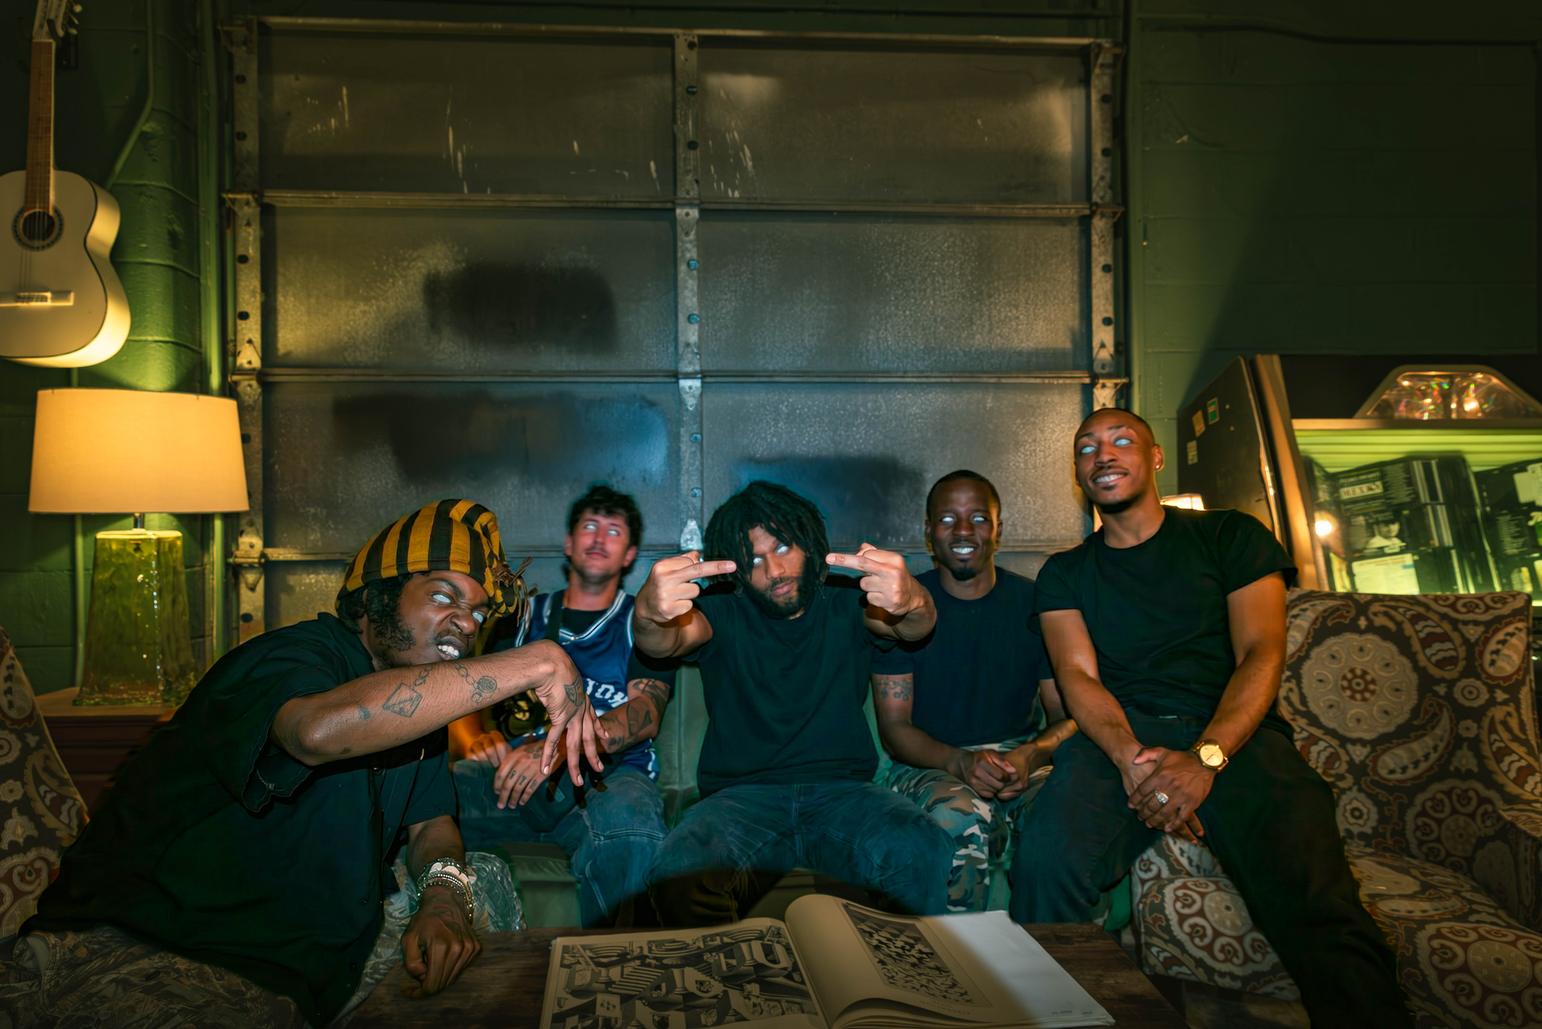
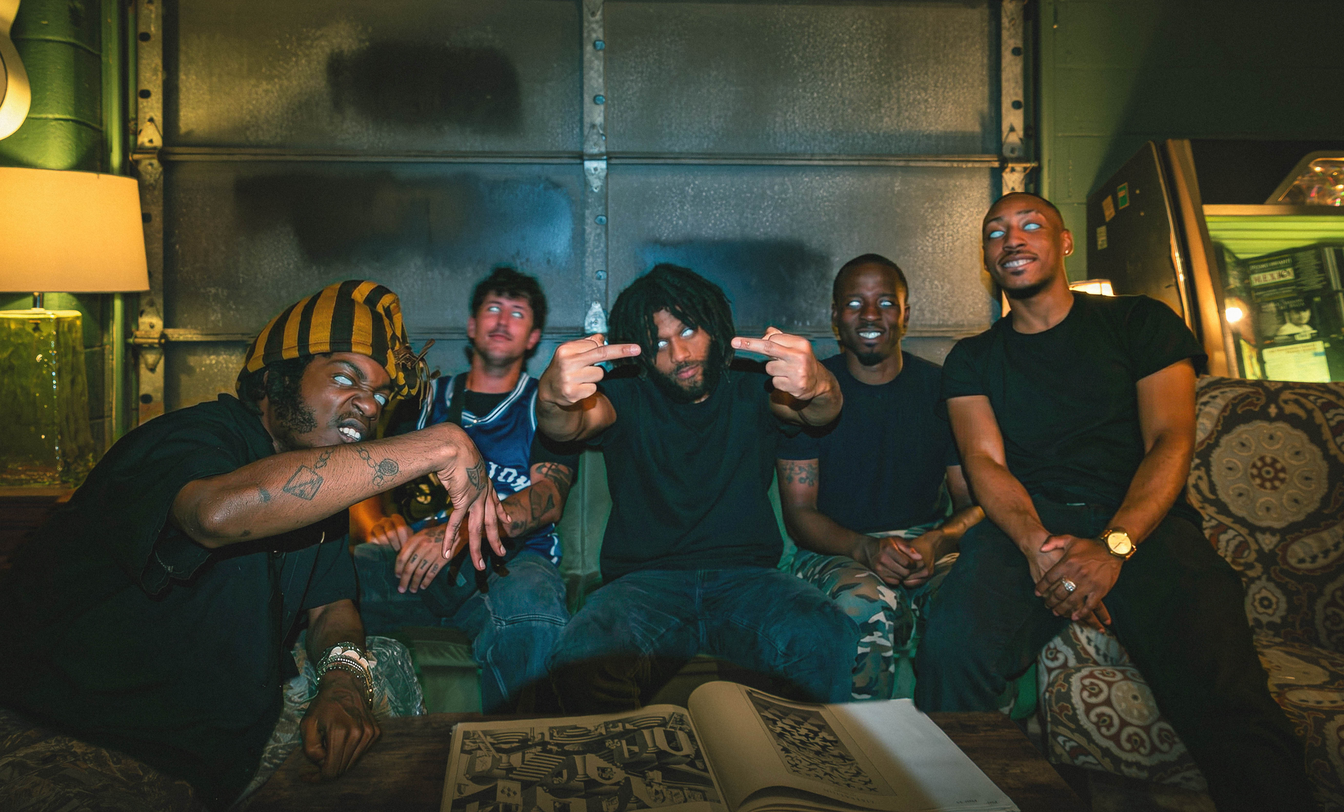
Rename connect to book, add three photos, reorganize the photo list
The contact route is /book now; nothing else linked to /connect.

comedy-15, comedy-16 and portrait-14 are new; comedy-07 and music-01 are
re-exports of photos already on the site.

lib/photos.ts is regrouped so the featured list leads and the per-category
albums follow it, with landscape and portrait photos kept together inside
each. That is presentation only - the file is edited by hand often enough
that finding a photo in it matters, and no code reads its order except the
rail, which goes by projectOrder rather than position.

diff --git a/lib/photos.ts b/lib/photos.ts
@@ -7,61 +7,33 @@ export type { Photo };
  * music-NN - and featured-NN for the few that suit no section and appear on
  * the home page only. The numbering is just folder order within each
  * section; it carries no meaning, so a photo can be renumbered or a gap left
- * without anything caring. Renaming a file means renaming it in the album
- * array AND in featuredPhotos below, since a photo is listed twice.
+ * without anything caring.
+ *
+ * Every list below is split into a vertical block and a horizontal block,
+ * because shape is what the layout actually reacts to: the rails are built
+ * from vertical photos, the horizontal ones fill the grid and set how often
+ * a rail comes round. Having them apart makes it obvious what moving a photo
+ * will cost. Within each block they run by section, then by name.
+ *
+ * A photo is listed twice - once in featuredPhotos, once in its section's
+ * array - so a rename or a caption fix has to be made in both.
  */
 
-export const musicPhotos: Photo[] = [
-  { src: '/photos/music-01.jpg', alt: 'Five band members lounging across a couch in a green-lit garage, an acoustic guitar hanging on the wall behind them', width: 6016, height: 4016 },
-  { src: '/photos/music-02.jpg', alt: 'Rapper mid-verse with one arm raised, stage lights streaking outward behind him in a zoom blur', width: 6016, height: 4016 },
-];
-
-export const comedyPhotos: Photo[] = [
-  { src: '/photos/comedy-01.jpg', alt: 'Stacked portrait of three comedians in caps, lit in purple and green', width: 1929, height: 2600 },
-  { src: '/photos/comedy-02.jpg', alt: 'Distorted composite portrait of a man in a cap and sweatshirt, his face warped by a motion-blur effect', width: 3000, height: 4000 },
-  { src: '/photos/comedy-03.jpg', alt: 'Black and white portrait of a smiling, mustached comedian double-exposed with a laughing audience crowd', width: 3000, height: 4088 },
-  { src: '/photos/comedy-04.jpg', alt: 'Stylized portrait of a smiling man in a backwards cap and gold chains throwing a peace sign, composited over a stormy city skyline lit by lightning', width: 1122, height: 1402, project: 'framed', projectOrder: 2 },
-  { src: '/photos/comedy-05.jpg', alt: 'Stylized portrait of a man in a leather jacket and sunglasses composited over a black-and-white crowd scene', width: 1122, height: 1402, project: 'framed', projectOrder: 1 },
-  { src: '/photos/comedy-06.jpg', alt: 'Close-up portrait of a bearded man with a mullet and neck tattoos in a western print shirt, looking upward', width: 1536, height: 1024 },
-  { src: '/photos/comedy-07.jpg', alt: 'Black and white portrait of a bald, bearded comedian in sunglasses and a plaid shirt, smoke curling beside him, inside a thin white frame', width: 2670, height: 3336, project: 'framed', projectOrder: 5 },
-  { src: '/photos/comedy-08.jpg', alt: 'Stylized portrait of a comedian lighting a cigarette, framed inset over a smoky black-and-white background of the same scene', width: 2160, height: 2700, project: 'framed', projectOrder: 3 },
-  { src: '/photos/comedy-09.jpg', alt: 'Comedian in a cap speaking into a microphone during his set', width: 4000, height: 2670 },
-  { src: '/photos/comedy-10.jpg', alt: 'Black and white portrait of a comedian in a flat cap and sunglasses peering through a stage curtain', width: 4000, height: 2670 },
-  { src: '/photos/comedy-11.jpg', alt: 'Comedian in a leather jacket on stage as the audience claps', width: 4000, height: 2670 },
-  { src: '/photos/comedy-12.jpg', alt: 'Comedian mid-joke on stage gesturing with his hand, lit in blue stage light', width: 4000, height: 2670 },
-  { src: '/photos/comedy-13.jpg', alt: 'Mustached comedian on stage smiling and gesturing while holding out a microphone by its cable', width: 6016, height: 4016 },
-  { src: '/photos/comedy-14.jpg', alt: 'Musician singing into a microphone while playing a sticker-covered acoustic guitar under a stage spotlight, inside a thin white frame', width: 1122, height: 1402, project: 'framed', projectOrder: 4 },
-];
-
-export const portraitPhotos: Photo[] = [
-  { src: '/photos/portrait-01.jpg', alt: 'Woman walking away toward a sunlit overlook at golden hour', width: 3981, height: 5972 },
-  { src: '/photos/portrait-03.jpg', alt: 'Blonde woman in a navy fur coat glancing back beneath a canopy of blue string lights in a city alley', width: 3615, height: 5561 },
-  { src: '/photos/portrait-04.jpg', alt: 'Woman smiling widely with sunglasses pushed up into her hair, seated on a sunlit patio', width: 5501, height: 3824 },
-  { src: '/photos/portrait-05.jpg', alt: 'Two women in elaborate Day of the Dead costumes standing in a desert canyon', width: 2666, height: 4000 },
-  { src: '/photos/portrait-06.jpg', alt: 'Woman on a phone call beside a vintage phone booth lit in red', width: 3072, height: 2048 },
-  { src: '/photos/portrait-07.jpg', alt: 'Portrait photograph', width: 5444, height: 8000 },
-  { src: '/photos/portrait-08.jpg', alt: 'Woman in a white ruffled dress and studded denim jacket posing with blue cat-eye sunglasses among balloons in purple and blue light', width: 3534, height: 5293 },
-  { src: '/photos/portrait-09.jpg', alt: 'Three boys goofing around in the middle of a suburban street at sunset, one held upside down over another boy shoulder', width: 3899, height: 5841 },
-  { src: '/photos/portrait-10.jpg', alt: 'Bearded man in a backwards cap crouched on the asphalt at dusk, shot wide against a deep blue sky and power lines', width: 6016, height: 4016 },
-  { src: '/photos/portrait-11.jpg', alt: 'Man with dreadlocks and a plaid shirt looking back over his shoulder against city lights at night', width: 6016, height: 4016 },
-  { src: '/photos/portrait-12.jpg', alt: 'Man with dreadlocks reclining on a wooden bench under dramatic low-key lighting', width: 4000, height: 2670 },
-  { src: '/photos/portrait-13.jpg', alt: 'Man in black shirt with gold cross necklace seated on a lounge sofa', width: 1297, height: 1748 },
-];
-
 /**
- * The order the mobile page opens with, by filename. These run first and in
- * this sequence, ahead of everything the interleaving and rail cadence
- * decide; add to the list to fix more of the opening, remove to hand a
- * photo back to the normal flow.
+ * The order the mobile home page opens with, by filename. These run first
+ * and in this sequence, ahead of everything the interleaving and rail
+ * cadence decide; add to the list to fix more of the opening, remove to hand
+ * a photo back to the normal flow.
  *
  * Mobile only - desktop is left to its own interleaved order.
  *
- * A portrait named here is spent on the opening and can no longer fill a
- * rail, and rails are built from portraits, so each one costs a rail photo:
- * there are 17 portrait-shaped photos, the three rails want 15 between them,
- * and the three pinned below are why the third rail runs to four rather
- * than five. Landscape-shaped photos cost nothing - pin as many as you like.
- * (Shape, not section: a photo filed under comedy can still be rail supply.)
+ * A vertical photo named here is spent on the opening and can no longer fill
+ * a rail, and rails are built from vertical photos, so each one costs a rail
+ * photo: there are 17 vertical photos, the three rails want 15 between
+ * them, and the three pinned below are why the third rail runs to four
+ * rather than five. Horizontal photos cost nothing - pin as many as you
+ * like. (Shape, not section: a photo filed under comedy can still be rail
+ * supply.)
  */
 export const MOBILE_LEAD: string[] = [
   '/photos/portrait-05.jpg',
@@ -72,48 +44,102 @@ export const MOBILE_LEAD: string[] = [
   '/photos/portrait-11.jpg',
 ];
 
-// Every photo the home page can show, tagged by section so it can interleave
-// them (see interleaveByCategory in lib/masonry.ts) instead of clumping the
-// same section together. The four featured-NN photos carry no tag: they suit
-// no section, and untagged photos are appended after the tagged ones rather
-// than dropped.
-//
-// Order here does matter, for desktop. The interleaving rotates through the
-// sections and takes the next unused photo from each, so a photo's place
-// within its own section decides how early it comes up - moving one higher
-// moves it earlier on the desktop page. It has no such effect on mobile,
-// where MOBILE_LEAD sets the opening and the rest is decided by the rail
-// cadence.
+/**
+ * Every photo the home page can show, tagged by section so it can interleave
+ * them (see interleaveByCategory in lib/masonry.ts) instead of clumping one
+ * section together. The featured-NN photos carry no tag: they suit no
+ * section, and untagged photos are appended after the tagged ones rather
+ * than dropped.
+ *
+ * Order here matters for desktop. The interleaving rotates through the
+ * sections and takes the next unused photo of the wanted shape from each, so
+ * a photo's place within its own section and shape decides how early it
+ * comes up - moving one higher moves it earlier on the desktop page. It has
+ * no such effect on mobile, where MOBILE_LEAD sets the opening and the rest
+ * follows the rail cadence.
+ */
 export const featuredPhotos: Photo[] = [
+  // vertical
   { src: '/photos/comedy-01.jpg', alt: 'Stacked portrait of three comedians in caps, lit in purple and green', width: 1929, height: 2600, category: 'comedy' },
   { src: '/photos/comedy-02.jpg', alt: 'Distorted composite portrait of a man in a cap and sweatshirt, his face warped by a motion-blur effect', width: 3000, height: 4000, category: 'comedy' },
   { src: '/photos/comedy-03.jpg', alt: 'Black and white portrait of a smiling, mustached comedian double-exposed with a laughing audience crowd', width: 3000, height: 4088, category: 'comedy' },
   { src: '/photos/comedy-04.jpg', alt: 'Stylized portrait of a smiling man in a backwards cap and gold chains throwing a peace sign, composited over a stormy city skyline lit by lightning', width: 1122, height: 1402, category: 'comedy', project: 'framed', projectOrder: 2 },
   { src: '/photos/comedy-05.jpg', alt: 'Stylized portrait of a man in a leather jacket and sunglasses composited over a black-and-white crowd scene', width: 1122, height: 1402, category: 'comedy', project: 'framed', projectOrder: 1 },
+  { src: '/photos/comedy-15.jpg', alt: 'Comedian gritting his teeth and squinting while pointing a corded microphone at the camera', width: 3712, height: 5568, category: 'comedy' },
+  { src: '/photos/comedy-07.jpg', alt: 'Black and white portrait of a bald, bearded comedian in sunglasses and a plaid shirt, smoke curling beside him, inside a thin white frame', width: 2670, height: 3336, category: 'comedy', project: 'framed', projectOrder: 5 },
+  { src: '/photos/comedy-08.jpg', alt: 'Stylized portrait of a comedian lighting a cigarette, framed inset over a smoky black-and-white background of the same scene', width: 2160, height: 2700, category: 'comedy', project: 'framed', projectOrder: 3 },
+  { src: '/photos/comedy-14.jpg', alt: 'Musician singing into a microphone while playing a sticker-covered acoustic guitar under a stage spotlight, inside a thin white frame', width: 1122, height: 1402, category: 'comedy', project: 'framed', projectOrder: 4 },
   { src: '/photos/portrait-01.jpg', alt: 'Woman walking away toward a sunlit overlook at golden hour', width: 3981, height: 5972, category: 'portraits' },
   { src: '/photos/portrait-03.jpg', alt: 'Blonde woman in a navy fur coat glancing back beneath a canopy of blue string lights in a city alley', width: 3615, height: 5561, category: 'portraits' },
-  { src: '/photos/portrait-04.jpg', alt: 'Woman smiling widely with sunglasses pushed up into her hair, seated on a sunlit patio', width: 5501, height: 3824, category: 'portraits' },
-  { src: '/photos/featured-01.jpg', alt: 'Sheer canyon walls catching low sun above a still green river that mirrors them', width: 8000, height: 12000 },
   { src: '/photos/portrait-05.jpg', alt: 'Two women in elaborate Day of the Dead costumes standing in a desert canyon', width: 2666, height: 4000, category: 'portraits' },
-  { src: '/photos/comedy-06.jpg', alt: 'Close-up portrait of a bearded man with a mullet and neck tattoos in a western print shirt, looking upward', width: 1536, height: 1024, category: 'comedy' },
-  { src: '/photos/featured-02.jpg', alt: 'Boy in a straw cowboy hat carrying a Texas flag across the granite dome of Enchanted Rock', width: 3024, height: 4032 },
-  { src: '/photos/portrait-06.jpg', alt: 'Woman on a phone call beside a vintage phone booth lit in red', width: 3072, height: 2048, category: 'portraits' },
-  { src: '/photos/comedy-07.jpg', alt: 'Black and white portrait of a bald, bearded comedian in sunglasses and a plaid shirt, smoke curling beside him, inside a thin white frame', width: 2670, height: 3336, category: 'comedy', project: 'framed', projectOrder: 5 },
-  { src: '/photos/featured-03.jpg', alt: 'Portrait of Willie Nelson projected in light onto the side of an old bus under a starry night sky', width: 4000, height: 2729 },
-  { src: '/photos/comedy-08.jpg', alt: 'Stylized portrait of a comedian lighting a cigarette, framed inset over a smoky black-and-white background of the same scene', width: 2160, height: 2700, category: 'comedy', project: 'framed', projectOrder: 3 },
   { src: '/photos/portrait-07.jpg', alt: 'Portrait photograph', width: 5444, height: 8000, category: 'portraits' },
   { src: '/photos/portrait-08.jpg', alt: 'Woman in a white ruffled dress and studded denim jacket posing with blue cat-eye sunglasses among balloons in purple and blue light', width: 3534, height: 5293, category: 'portraits' },
   { src: '/photos/portrait-09.jpg', alt: 'Three boys goofing around in the middle of a suburban street at sunset, one held upside down over another boy shoulder', width: 3899, height: 5841, category: 'portraits' },
-  { src: '/photos/portrait-10.jpg', alt: 'Bearded man in a backwards cap crouched on the asphalt at dusk, shot wide against a deep blue sky and power lines', width: 6016, height: 4016, category: 'portraits' },
+  { src: '/photos/portrait-13.jpg', alt: 'Man in black shirt with gold cross necklace seated on a lounge sofa', width: 1297, height: 1748, category: 'portraits' },
+  { src: '/photos/portrait-14.jpg', alt: 'Woman in a leopard-print bodysuit and sunglasses crouching in front of a graffiti mural, glancing back over her shoulder', width: 3924, height: 5878, category: 'portraits' },
+  { src: '/photos/featured-01.jpg', alt: 'Sheer canyon walls catching low sun above a still green river that mirrors them', width: 8000, height: 12000 },
+  { src: '/photos/featured-02.jpg', alt: 'Boy in a straw cowboy hat carrying a Texas flag across the granite dome of Enchanted Rock', width: 3024, height: 4032 },
+
+  // horizontal
+  { src: '/photos/comedy-06.jpg', alt: 'Close-up portrait of a bearded man with a mullet and neck tattoos in a western print shirt, looking upward', width: 1536, height: 1024, category: 'comedy' },
   { src: '/photos/comedy-09.jpg', alt: 'Comedian in a cap speaking into a microphone during his set', width: 4000, height: 2670, category: 'comedy' },
-  { src: '/photos/music-01.jpg', alt: 'Five band members lounging across a couch in a green-lit garage, an acoustic guitar hanging on the wall behind them', width: 6016, height: 4016, category: 'music' },
   { src: '/photos/comedy-10.jpg', alt: 'Black and white portrait of a comedian in a flat cap and sunglasses peering through a stage curtain', width: 4000, height: 2670, category: 'comedy' },
-  { src: '/photos/music-02.jpg', alt: 'Rapper mid-verse with one arm raised, stage lights streaking outward behind him in a zoom blur', width: 6016, height: 4016, category: 'music' },
   { src: '/photos/comedy-11.jpg', alt: 'Comedian in a leather jacket on stage as the audience claps', width: 4000, height: 2670, category: 'comedy' },
   { src: '/photos/comedy-12.jpg', alt: 'Comedian mid-joke on stage gesturing with his hand, lit in blue stage light', width: 4000, height: 2670, category: 'comedy' },
   { src: '/photos/comedy-13.jpg', alt: 'Mustached comedian on stage smiling and gesturing while holding out a microphone by its cable', width: 6016, height: 4016, category: 'comedy' },
+  { src: '/photos/portrait-04.jpg', alt: 'Woman smiling widely with sunglasses pushed up into her hair, seated on a sunlit patio', width: 5501, height: 3824, category: 'portraits' },
+  { src: '/photos/portrait-06.jpg', alt: 'Woman on a phone call beside a vintage phone booth lit in red', width: 3072, height: 2048, category: 'portraits' },
+  { src: '/photos/portrait-10.jpg', alt: 'Bearded man in a backwards cap crouched on the asphalt at dusk, shot wide against a deep blue sky and power lines', width: 6016, height: 4016, category: 'portraits' },
   { src: '/photos/portrait-11.jpg', alt: 'Man with dreadlocks and a plaid shirt looking back over his shoulder against city lights at night', width: 6016, height: 4016, category: 'portraits' },
   { src: '/photos/portrait-12.jpg', alt: 'Man with dreadlocks reclining on a wooden bench under dramatic low-key lighting', width: 4000, height: 2670, category: 'portraits' },
-  { src: '/photos/portrait-13.jpg', alt: 'Man in black shirt with gold cross necklace seated on a lounge sofa', width: 1297, height: 1748, category: 'portraits' },
-  { src: '/photos/comedy-14.jpg', alt: 'Musician singing into a microphone while playing a sticker-covered acoustic guitar under a stage spotlight, inside a thin white frame', width: 1122, height: 1402, category: 'comedy', project: 'framed', projectOrder: 4 },
+  { src: '/photos/music-01.jpg', alt: 'Five band members lounging on a couch in a green-lit garage, their eyes glowing white, an acoustic guitar hanging on the wall behind them', width: 5241, height: 3169, category: 'music' },
+  { src: '/photos/music-02.jpg', alt: 'Rapper mid-verse with one arm raised, stage lights streaking outward behind him in a zoom blur', width: 6016, height: 4016, category: 'music' },
+  { src: '/photos/featured-03.jpg', alt: 'Portrait of Willie Nelson projected in light onto the side of an old bus under a starry night sky', width: 4000, height: 2729 },
+];
+
+export const comedyPhotos: Photo[] = [
+  // vertical
+  { src: '/photos/comedy-01.jpg', alt: 'Stacked portrait of three comedians in caps, lit in purple and green', width: 1929, height: 2600 },
+  { src: '/photos/comedy-02.jpg', alt: 'Distorted composite portrait of a man in a cap and sweatshirt, his face warped by a motion-blur effect', width: 3000, height: 4000 },
+  { src: '/photos/comedy-03.jpg', alt: 'Black and white portrait of a smiling, mustached comedian double-exposed with a laughing audience crowd', width: 3000, height: 4088 },
+  { src: '/photos/comedy-04.jpg', alt: 'Stylized portrait of a smiling man in a backwards cap and gold chains throwing a peace sign, composited over a stormy city skyline lit by lightning', width: 1122, height: 1402, project: 'framed', projectOrder: 2 },
+  { src: '/photos/comedy-05.jpg', alt: 'Stylized portrait of a man in a leather jacket and sunglasses composited over a black-and-white crowd scene', width: 1122, height: 1402, project: 'framed', projectOrder: 1 },
+  { src: '/photos/comedy-15.jpg', alt: 'Comedian gritting his teeth and squinting while pointing a corded microphone at the camera', width: 3712, height: 5568 },
+  { src: '/photos/comedy-07.jpg', alt: 'Black and white portrait of a bald, bearded comedian in sunglasses and a plaid shirt, smoke curling beside him, inside a thin white frame', width: 2670, height: 3336, project: 'framed', projectOrder: 5 },
+  { src: '/photos/comedy-08.jpg', alt: 'Stylized portrait of a comedian lighting a cigarette, framed inset over a smoky black-and-white background of the same scene', width: 2160, height: 2700, project: 'framed', projectOrder: 3 },
+  { src: '/photos/comedy-14.jpg', alt: 'Musician singing into a microphone while playing a sticker-covered acoustic guitar under a stage spotlight, inside a thin white frame', width: 1122, height: 1402, project: 'framed', projectOrder: 4 },
+  { src: '/photos/comedy-16.jpg', alt: 'Comedian in a backwards cap and tan hoodie mid-joke on a stool, a longhorn-cattle backdrop lit behind him', width: 3954, height: 5051 },
+
+  // horizontal
+  { src: '/photos/comedy-06.jpg', alt: 'Close-up portrait of a bearded man with a mullet and neck tattoos in a western print shirt, looking upward', width: 1536, height: 1024 },
+  { src: '/photos/comedy-09.jpg', alt: 'Comedian in a cap speaking into a microphone during his set', width: 4000, height: 2670 },
+  { src: '/photos/comedy-10.jpg', alt: 'Black and white portrait of a comedian in a flat cap and sunglasses peering through a stage curtain', width: 4000, height: 2670 },
+  { src: '/photos/comedy-11.jpg', alt: 'Comedian in a leather jacket on stage as the audience claps', width: 4000, height: 2670 },
+  { src: '/photos/comedy-12.jpg', alt: 'Comedian mid-joke on stage gesturing with his hand, lit in blue stage light', width: 4000, height: 2670 },
+  { src: '/photos/comedy-13.jpg', alt: 'Mustached comedian on stage smiling and gesturing while holding out a microphone by its cable', width: 6016, height: 4016 },
+];
+
+export const portraitPhotos: Photo[] = [
+  // vertical
+  { src: '/photos/portrait-01.jpg', alt: 'Woman walking away toward a sunlit overlook at golden hour', width: 3981, height: 5972 },
+  { src: '/photos/portrait-03.jpg', alt: 'Blonde woman in a navy fur coat glancing back beneath a canopy of blue string lights in a city alley', width: 3615, height: 5561 },
+  { src: '/photos/portrait-05.jpg', alt: 'Two women in elaborate Day of the Dead costumes standing in a desert canyon', width: 2666, height: 4000 },
+  { src: '/photos/portrait-07.jpg', alt: 'Portrait photograph', width: 5444, height: 8000 },
+  { src: '/photos/portrait-08.jpg', alt: 'Woman in a white ruffled dress and studded denim jacket posing with blue cat-eye sunglasses among balloons in purple and blue light', width: 3534, height: 5293 },
+  { src: '/photos/portrait-09.jpg', alt: 'Three boys goofing around in the middle of a suburban street at sunset, one held upside down over another boy shoulder', width: 3899, height: 5841 },
+  { src: '/photos/portrait-13.jpg', alt: 'Man in black shirt with gold cross necklace seated on a lounge sofa', width: 1297, height: 1748 },
+  { src: '/photos/portrait-14.jpg', alt: 'Woman in a leopard-print bodysuit and sunglasses crouching in front of a graffiti mural, glancing back over her shoulder', width: 3924, height: 5878 },
+
+  // horizontal
+  { src: '/photos/portrait-04.jpg', alt: 'Woman smiling widely with sunglasses pushed up into her hair, seated on a sunlit patio', width: 5501, height: 3824 },
+  { src: '/photos/portrait-06.jpg', alt: 'Woman on a phone call beside a vintage phone booth lit in red', width: 3072, height: 2048 },
+  { src: '/photos/portrait-10.jpg', alt: 'Bearded man in a backwards cap crouched on the asphalt at dusk, shot wide against a deep blue sky and power lines', width: 6016, height: 4016 },
+  { src: '/photos/portrait-11.jpg', alt: 'Man with dreadlocks and a plaid shirt looking back over his shoulder against city lights at night', width: 6016, height: 4016 },
+  { src: '/photos/portrait-12.jpg', alt: 'Man with dreadlocks reclining on a wooden bench under dramatic low-key lighting', width: 4000, height: 2670 },
+];
+
+export const musicPhotos: Photo[] = [
+  // horizontal
+  { src: '/photos/music-01.jpg', alt: 'Five band members lounging on a couch in a green-lit garage, their eyes glowing white, an acoustic guitar hanging on the wall behind them', width: 5241, height: 3169 },
+  { src: '/photos/music-02.jpg', alt: 'Rapper mid-verse with one arm raised, stage lights streaking outward behind him in a zoom blur', width: 6016, height: 4016 },
 ];

diff --git a/app/book/page.tsx b/app/book/page.tsx
@@ -3,7 +3,7 @@
 import { useState } from 'react';
 import { motion } from 'framer-motion';
 
-export default function ConnectPage() {
+export default function BookPage() {
   const [formData, setFormData] = useState({
     name: '',
     email: '',
@@ -44,7 +44,7 @@ export default function ConnectPage() {
             transition={{ duration: 0.6 }}
             className="mb-12"
           >
-            <h1 className="text-4xl font-800 mb-4" style={{color: 'var(--ink)', textTransform: 'lowercase'}}>Let's Connect</h1>
+            <h1 className="text-4xl font-800 mb-4" style={{color: 'var(--ink)', textTransform: 'lowercase'}}>Book a Shoot</h1>
             <p className="text-lg opacity-75" style={{color: 'var(--dim)'}}>
               Have a project in mind? I'd love to hear from you. Fill out the form below and I'll get back to you shortly.
             </p>

diff --git a/components/HeroSectionModern.tsx b/components/HeroSectionModern.tsx
@@ -19,7 +19,7 @@ const NAV: NavItem[] = [
   { label: 'portraits', href: '/portraits' },
   { label: 'music', href: '/music' },
   { label: 'about', href: '/about' },
-  { label: 'connect', href: '/connect' },
+  { label: 'book', href: '/book' },
 ];
 
 export default function HeroSectionModern() {

diff --git a/components/HeroSectionClassic.tsx b/components/HeroSectionClassic.tsx
@@ -24,7 +24,7 @@ const NAV: NavItem[] = [
   { label: 'portraits', href: '/portraits' },
   { label: 'music', href: '/music' },
   { label: 'about', href: '/about' },
-  { label: 'connect', href: '/connect' },
+  { label: 'book', href: '/book' },
 ];
 
 /**
